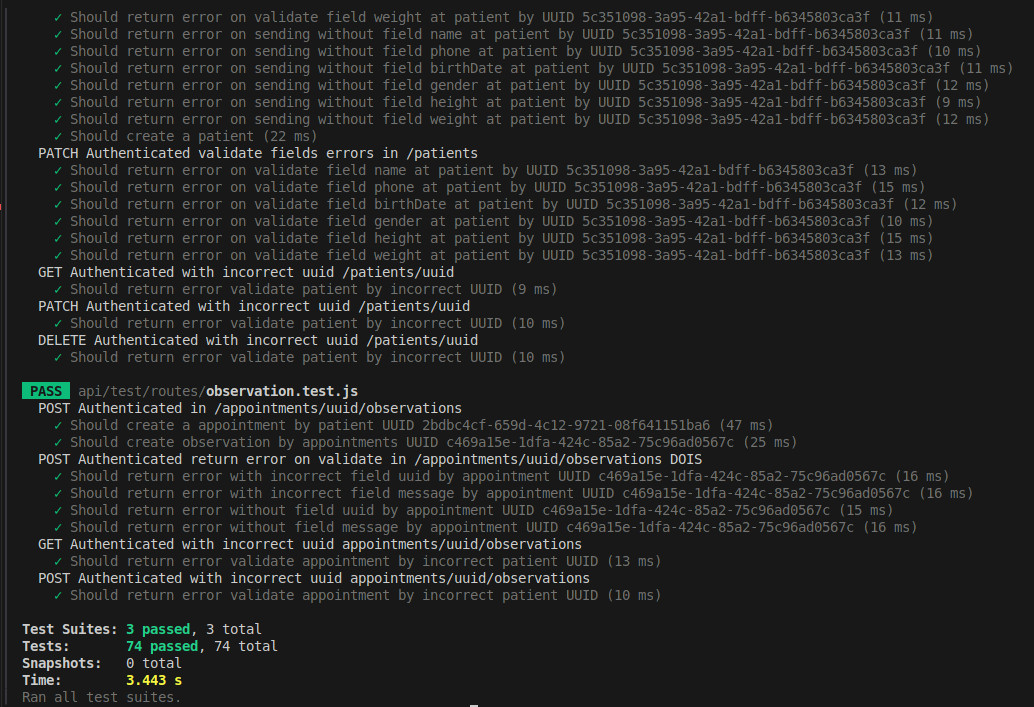
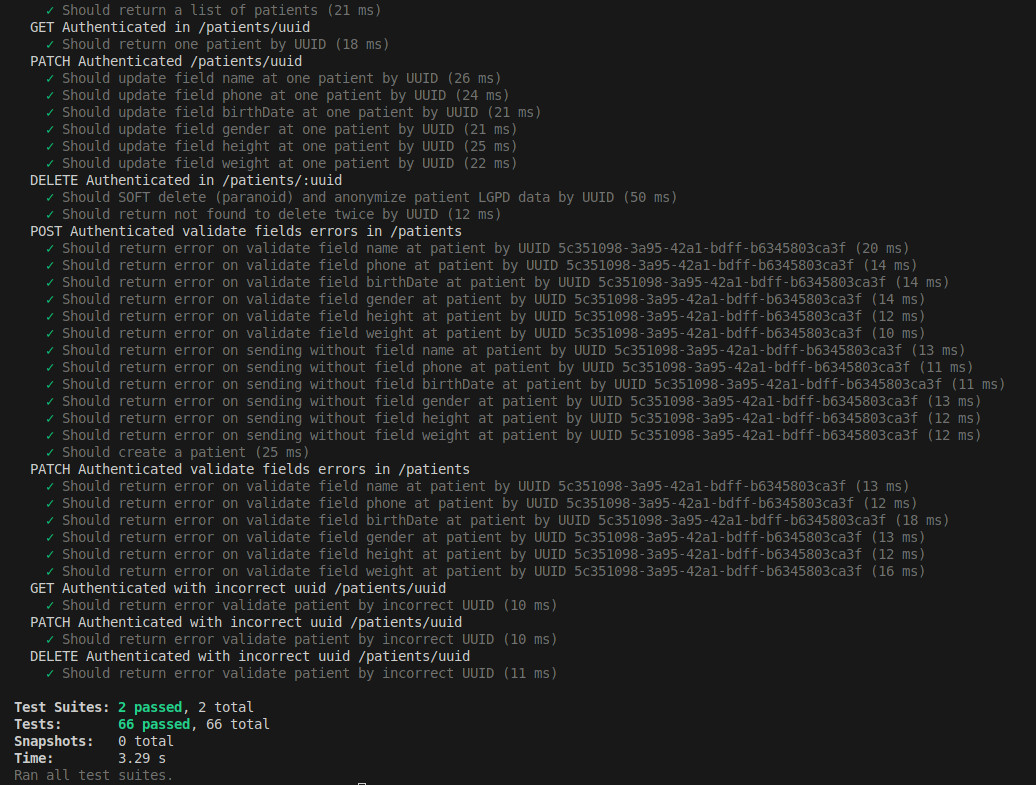
fix: reduzindo a complixidade removendo recurso observation

diff --git a/backend-rest/api/services/appointmentService.js b/backend-rest/api/services/appointmentService.js
@@ -14,7 +14,7 @@ class AppointmentService extends BaseService {
 
       if (!patient) {
         throw new CustomErrors.NotFoundError('Patient not found');
-      };
+      }
 
       const doctor = await database.doctors.findOne({
         where: {
@@ -28,6 +28,7 @@ class AppointmentService extends BaseService {
         patientId: patient.id,
         doctorId: doctor.id,
         description: dto.description,
+        observation: dto.observation,
         startTime: dto.startTime,
         endTime: dto.endTime
       });
@@ -42,7 +43,7 @@ class AppointmentService extends BaseService {
 
       if (existingAppointment) {
         throw new CustomErrors.ValidationError('Appointment already exists');
-      };
+      }
 
       await this._searchConflicts(newAppointment);
 
@@ -68,7 +69,7 @@ class AppointmentService extends BaseService {
         where: {
           doctorId: doctor.id,
         },
-        attributes: ['uuid', 'description', 'startTime', 'endTime'],
+        attributes: ['uuid', 'description', 'observation', 'startTime', 'endTime'],
         include: [
           {
             model: database.patients,
@@ -97,13 +98,13 @@ class AppointmentService extends BaseService {
 
       if (!patient) {
         throw new CustomErrors.NotFoundError('Patient not found');
-      };
+      }
 
       const list = await database.appointments.findAll({
         where: {
           patientId: patient.id,
         },
-        attributes: ['uuid', 'description', 'startTime', 'endTime'],
+        attributes: ['uuid', 'description', 'observation', 'startTime', 'endTime'],
         include: [
           {
             model: database.patients,
@@ -127,7 +128,7 @@ class AppointmentService extends BaseService {
         where: {
           uuid: dto.uuid,
         },
-        attributes: ['id', 'uuid', 'patientId', 'doctorId', 'description', 'startTime', 'endTime'],
+        attributes: ['id', 'uuid', 'patientId', 'doctorId', 'description', 'observation', 'startTime', 'endTime'],
       });
 
       if (!appointment) {
@@ -159,9 +160,7 @@ class AppointmentService extends BaseService {
       });
 
       if (!appointment) {
-        return res.status(StatusCodes.NOT_FOUND).json({
-          message: 'appointment not found',
-        });
+        throw new CustomErrors.NotFoundError('Appointment not found');
       }
 
       await appointment.destroy();
@@ -172,23 +171,18 @@ class AppointmentService extends BaseService {
   }
 
   async _searchConflicts(appointment) {
-    try {
-      const conflicts = await appointment.findConflicts();
-      if (conflicts.length > 0) {
-        const appointmentsConflicted = conflicts.map(conflict => ({
-          uuid: conflict.uuid,
-          startTime: conflict.startTime,
-          endTime: conflict.endTime
-        }));
+    const conflicts = await appointment.findConflicts();
+    if (conflicts.length > 0) {
+      const appointmentsConflicted = conflicts.map(conflict => ({
+        uuid: conflict.uuid,
+        startTime: conflict.startTime,
+        endTime: conflict.endTime
+      }));
 
-        throw new CustomErrors.ValidationError(
-          'Appointment(s) conflicting found',
-          appointmentsConflicted
-        );
-      }
-
-    } catch (error) {
-      throw error;
+      throw new CustomErrors.ValidationError(
+        'conflict',
+        appointmentsConflicted
+      );
     }
   }
 }

diff --git a/backend-rest/api/models/appointments.js b/backend-rest/api/models/appointments.js
@@ -22,17 +22,16 @@ module.exports = (sequelize, DataTypes) => {
     }
 
     async findConflicts() {
-      try {
-        /*
-          This query became awful and unnecessarily complex using 
-          the ORM features, so I decided to keep it raw in the code.
-        */
-        let dontCheckItself = "";
-        if (this.id) {
-          dontCheckItself = `AND id != :id`;
-        }
+      /*
+        This query became awful and unnecessarily complex using 
+        the ORM features, so I decided to keep it raw in the code.
+      */
+      let dontCheckItself = "";
+      if (this.id) {
+        dontCheckItself = `AND id != :id`;
+      }
 
-        const conflictsQuery = `
+      const conflictsQuery = `
           SELECT uuid, "startTime", "endTime" 
           FROM appointments 
           WHERE "doctorId" = :doctorId ${dontCheckItself}
@@ -43,30 +42,40 @@ module.exports = (sequelize, DataTypes) => {
           );
          `;
 
-        const conflicts = await sequelize.query(
-          conflictsQuery,
-          {
-            replacements: {
-              id: this.id,
-              doctorId: this.doctorId,
-              startTime: this.startTime,
-              endTime: this.endTime
-            },
-            type: this.sequelize.QueryTypes.SELECT
-          }
-        );
+      const conflicts = await sequelize.query(
+        conflictsQuery,
+        {
+          replacements: {
+            id: this.id,
+            doctorId: this.doctorId,
+            startTime: this.startTime,
+            endTime: this.endTime
+          },
+          type: this.sequelize.QueryTypes.SELECT
+        }
+      );
 
-        return conflicts;
+      /*
+        TODO:
+        ugly, but it works. Look for a better way to handle timezones
+      */
+      const result = conflicts.map(appointment => {
+        const timezone = Intl.DateTimeFormat().resolvedOptions().timeZone;
+        return {
+          uuid: appointment.uuid,
+          startTime: moment.tz(appointment.startTime, timezone).format('YYYY-MM-DD HH:mm:ss'),
+          endTime: moment.tz(appointment.endTime, timezone).format('YYYY-MM-DD HH:mm:ss')
+        };
+      });
 
-      } catch (error) {
-        throw error;
-      }
+      return result;
     }
 
     serialize() {
       return {
         uuid: this.uuid,
         description: this.description,
+        observation: this.observation,
         startTime: this.startTime,
         endTime: this.endTime
       };
@@ -104,6 +113,10 @@ module.exports = (sequelize, DataTypes) => {
     description: {
       type: DataTypes.STRING(255),
       allowNull: true,
+    },
+    observation: {
+      type: DataTypes.TEXT,
+      allowNull: true
     },
     startTime: {
       type: DataTypes.DATE,

diff --git a/backend-rest/api/routes/swagger/schemas.js b/backend-rest/api/routes/swagger/schemas.js
@@ -125,8 +125,12 @@
  *           example: "ccd71acf-7be4-42dc-b562-a7807d70c173"
  *         description:
  *           type: string
- *           required: true
+ *           required: false
  *           example: "Primeira consulta da Tarde"
+ *         observation:
+ *           type: string
+ *           required: false
+ *           example: "Exames mais profundos por conta das dores nas costas"
  *         startTime:
  *           type: string date
  *           required: true 
@@ -142,6 +146,9 @@
  *         description:
  *           type: string
  *           example: "Remarcando primeira consulta da tarde"
+ *         observation:
+ *           type: string
+ *           example: "Exames mais profundos por conta das dores nas costas"
  *         startTime:
  *           type: string date
  *           example: "2028-12-20 17:00:00"
@@ -158,6 +165,9 @@
  *         description:
  *           type: string
  *           example: "Primeira consulta da manhã"
+ *         observation:
+ *           type: string
+ *           example: "Exames mais profundos por conta das dores nas costas"
  *         startTime:
  *           type: string date
  *           example: "2028-12-20 16:30:00"
@@ -174,6 +184,9 @@
  *         description:
  *           type: string
  *           example: "Primeira consulta da manhã"
+ *         observation:
+ *           type: string
+ *           example: "Exames mais profundos por conta das dores nas costas"
  *         startTime:
  *           type: string date
  *           example: "2028-12-20 16:30:00"

diff --git a/backend-rest/api/controllers/appointmentController.js b/backend-rest/api/controllers/appointmentController.js
@@ -16,9 +16,9 @@ class AppointmentController extends BaseController {
     }
 
     try {
-      const { uuid: appointmentUUID, description, startTime, endTime } = req.body;
+      const { uuid: appointmentUUID, description, observation, startTime, endTime } = req.body;
 
-      const dto = { userUUID: req.userUUID, patientUUID, appointmentUUID, description, startTime, endTime };
+      const dto = { userUUID: req.userUUID, patientUUID, appointmentUUID, description, observation, startTime, endTime };
 
       const newAppointment = await appointmentService.create(dto);
 
@@ -75,7 +75,7 @@ class AppointmentController extends BaseController {
     }
 
     try {
-      const allowedFields = ['description', 'startTime', 'endTime'];
+      const allowedFields = ['description', 'observation', 'startTime', 'endTime'];
 
       let dto = { uuid: appointmentUUID };
       allowedFields.forEach(field => {

diff --git a/backend-rest/api/test/routes/patient.test.js b/backend-rest/api/test/routes/patient.test.js
@@ -28,9 +28,9 @@ afterAll(async () => {
 const patientsToCreate = [
   {
     uuid: 'db7a27cc-69c4-46eb-ad0d-3166972bfbc9',
-    name: 'Pedro Prado',
+    name: 'Virgilio Vigo',
     phone: '551100000000',
-    email: 'pedro@gmail.com',
+    email: 'virgiliov@gmail.com',
     birthDate: '1990-05-15',
     gender: 'male',
     height: '1.75',
@@ -204,9 +204,9 @@ describe('DELETE Authenticated in /patients/:uuid', () => {
 const patientToValidate =
 {
   uuid: '5c351098-3a95-42a1-bdff-b6345803ca3f',
-  name: 'Pedro Prado',
+  name: 'Diogo Diogenes',
   phone: '551100000000',
-  email: 'pedro@gmail.com',
+  email: 'diogod@gmail.com',
   birthDate: '1990-05-15',
   gender: 'male',
   height: '1.75',

diff --git a/backend-rest/api/test/routes/appointment.test.js b/backend-rest/api/test/routes/appointment.test.js
@@ -222,7 +222,7 @@ describe('POST Authenticated conflicts date time in /appointments/uuid/appointme
       })
       .expect(StatusCodes.BAD_REQUEST);
 
-    expect(response.body.message).toEqual('Appointment(s) conflicting found');
+    expect(response.body.message).toEqual('conflict');
   });
 });
 
@@ -259,7 +259,7 @@ describe('PATCH Authenticated conflicts date time in /appointments/uuid', () => 
         .expect('content-type', /json/)
         .expect(StatusCodes.BAD_REQUEST);
 
-      expect(response.body.message).toEqual('Appointment(s) conflicting found');
+      expect(response.body.message).toEqual('conflict');
     });
 });
 

diff --git a/backend-rest/api/migrations/20240920035843-create-appointment.js b/backend-rest/api/migrations/20240920035843-create-appointment.js
@@ -29,7 +29,10 @@ module.exports = {
         },
       },
       description: {
-        type: Sequelize.STRING(500)
+        type: Sequelize.STRING
+      },
+      observation: {
+        type: Sequelize.STRING
       },
       startTime: {
         type: Sequelize.DATE
@@ -56,7 +59,7 @@ module.exports = {
       name: 'unique_appointments_uuid_index'
     });
   },
-  async down(queryInterface, Sequelize) {
+  async down(queryInterface) {
     await queryInterface.dropTable('appointments');
   }
 };

diff --git a/backend-rest/api/services/patientService.js b/backend-rest/api/services/patientService.js
@@ -21,7 +21,7 @@ class PatientService extends BaseService {
 
       if (existingPatient) {
         throw new CustomErrors.ValidationError('Patient already exists');
-      };
+      }
 
       await newPatient.save();
       return newPatient.serialize();

diff --git a/backend-rest/api/routes/apiDocRoutes.js b/backend-rest/api/routes/apiDocRoutes.js
@@ -10,7 +10,7 @@ const swaggerOptions = {
     openapi: '3.0.0',
     info: {
       title: 'MedPlanner Rest API',
-      version: '0.0.16',
+      version: '0.0.17',
       description: 'API documentation',
     },
     servers: [

diff --git a/CHANGELOG.md b/CHANGELOG.md
@@ -12,6 +12,12 @@ and this project adheres to [Semantic Versioning](https://semver.org/spec/v2.0.0
 
 ### Fixed
 
+## [0.0.17] - 2024-27-09
+### Added
+
+- Removido recurso observation
+- Simplificando fluxo de front
+
 ## [0.0.16] - 2024-27-09
 ### Added
 
@@ -153,6 +159,7 @@ and this project adheres to [Semantic Versioning](https://semver.org/spec/v2.0.0
 - Iniciado o [Projeto](https://github.com/users/jtonynet/projects/3) com o commit inicial. Documentação base: Readme Rico, [Diagramas Mermaid](https://github.com/jtonynet/go-products-api/tree/main#diagrams), ADRs: [0001: Registro de Decisões de Arquitetura (ADR)](./docs/architecture/decisions/registro-de-decisoes-de-arquitetura.md) e [0002: Express, Sequelize e Postgress em API TDD Jest com arquitetura de Duas camadas](./docs/architecture/decisions/0002-express-sequelize-e-postgress-tdd-jest-com-arquitetura-de-api-em-duas-camadas.md).
 - Sabemos o que fazer, graças às definições do arquivo __README.md__. Sabemos como fazer graças aos __ADRs__ e documentações vinculadas. Devemos nos organizar em estrutura __Kanban__, guiados pelo modelo Agile, em nosso __Github Project__, e dar o devido prosseguimento às tarefas.
 
+[0.0.17]: https://github.com/jtonynet/js-med-planner/compare/v0.0.16...v0.0.17
 [0.0.16]: https://github.com/jtonynet/js-med-planner/compare/v0.0.15...v0.0.16
 [0.0.15]: https://github.com/jtonynet/js-med-planner/compare/v0.0.14...v0.0.15
 [0.0.14]: https://github.com/jtonynet/js-med-planner/compare/v0.0.13...v0.0.14

diff --git a/README.md b/README.md
@@ -272,7 +272,7 @@ erDiagram
     doctor ||--o{ appointment : has
 ```
 
-   1. A abordagem da tabela `doctor` com o campo `password` foi aplicada apenas para ter uma autenticação minima nos endpoints dos recursos desde o inicio. Caso alcance todos os requisitos obrigatórios do desafio e tenha tempo disponível, pretendo implementar `user` com `roles` adequadas e uma política de refresh-token
+   1. A abordagem da tabela `doctor` com o campo `password` foi aplicada apenas para ter uma autenticação minima nos endpoints dos recursos desde o inicio. Caso alcance todos os requisitos obrigatórios do desafio e tenha tempo disponível, pretendo implementar `user` com `roles` adequadas e uma política de `refresh-token`
 <br/>
 
 <br/>
